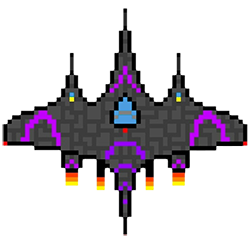
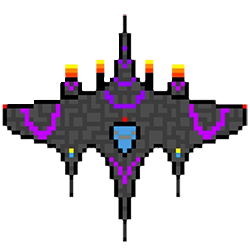
fix all coordinates to be in the center of the sprites
rotated boss ship, little tweaks to the laser flame to be perfectly centered in the boss ship, half player sprite can go  outside the edges of the window and some adjustments for the new coordinate system

Changed region(s): [[0.0, 0.028, 1.0, 0.98]]

diff --git a/models/ship.py b/models/ship.py
@@ -37,7 +37,10 @@ class Ship:
         # like the lasers appear from above the ship
         for laser in self.lasers:
             laser.draw(window)
-        window.blit(self.ship_img, (self.x, self.y))
+
+        # making ship's coordinates centered in the sprite
+        x_offset, y_offset = self.ship_img.get_size()
+        window.blit(self.ship_img, (self.x-x_offset/2, self.y-y_offset/2))
 
     def move_lasers(self, vel, obj):
         self.coolDown()
@@ -115,10 +118,9 @@ class Player(Ship):
         cx, cy = pygame.mouse.get_pos()
         button = pygame.mouse.get_pressed()        
         keys = pygame.key.get_pressed()
-
         # Movement
-        if cx > 0 and cx + self.ship_img.get_width() < WIDTH \
-            and cy > 0 and cy + self.ship_img.get_height() < HEIGHT :
+        if cx > 0 and cx < WIDTH \
+            and cy > 0 and cy < HEIGHT :
             self.x = cx
             self.y = cy
         # Shoot Laser
@@ -164,12 +166,13 @@ class Player(Ship):
         self.healthBar(window)
 
     def healthBar(self, window):
-        pygame.draw.rect(window, (255, 0, 0), (self.x,
-                                               self.y + self.ship_img.get_height() + 10,
+        x_offset, y_offset = self.ship_img.get_size()
+        pygame.draw.rect(window, (255, 0, 0), (self.x - x_offset/2,
+                                               self.y + y_offset/2 + 10,
                                                int(self.ship_img.get_width()),
                                                10))
-        pygame.draw.rect(window, (0, 255, 0), (self.x,
-                                               self.y + self.ship_img.get_height() + 10,
+        pygame.draw.rect(window, (0, 255, 0), (self.x - x_offset/2,
+                                               self.y + y_offset/2 + 10,
                                                int(self.ship_img.get_width() * (self.health/self.max_health)),
                                                10))
 
@@ -205,6 +208,6 @@ class Enemy(Ship):
     def shoot(self):
         if self.cool_down_counter == 0 and self.y > 0:
             ENEMY_LASER_SOUND.play()
-            laser = Laser(self.x - 10, self.y, self.laser_img)
+            laser = Laser(self.x, self.y, self.laser_img)
             self.lasers.append(laser)
             self.cool_down_counter = 1

diff --git a/models/laser.py b/models/laser.py
@@ -10,7 +10,9 @@ class Laser:
         self.mask = pygame.mask.from_surface(self.img)
 
     def draw(self, window):
-        window.blit(self.img, (self.x, self.y))
+        # making laser's coordinates centered in the sprite
+        x_offset, y_offset = self.img.get_size()
+        window.blit(self.img, (self.x-x_offset/2, self.y-y_offset/2))
 
     def move(self, vel):
         self.y += vel
@@ -20,3 +22,9 @@ class Laser:
 
     def collision(self, obj):
         return collide(self, obj)
+
+    def get_width(self):
+        return self.img.get_width()
+
+    def get_height(self):
+        return self.img.get_height()

diff --git a/utils/collide.py b/utils/collide.py
@@ -1,4 +1,6 @@
 def collide(obj1, obj2):
-    offset_x = obj2.x - obj1.x
-    offset_y = obj2.y - obj1.y
-    return obj1.mask.overlap(obj2.mask, (offset_x, offset_y)) != None
+    # obj1 and obj2 coordinates refer to the middle point of the mask, so we have to compute
+    # the coordinates of the upper-left corner of the sprite
+    x_offset = (obj2.x - obj2.get_width()/2) - (obj1.x - obj1.get_width()/2)
+    y_offset = (obj2.y - obj2.get_height()/2) - (obj1.y - obj1.get_height()/2)
+    return obj1.mask.overlap(obj2.mask, (x_offset, y_offset)) != None

diff --git a/screens/game.py b/screens/game.py
@@ -180,7 +180,7 @@ def game(isMouse=False):
                 else:
                     player.health -= 10
                     enemies.remove(enemy)
-            elif enemy.y + enemy.get_height() > HEIGHT:
+            elif enemy.y + enemy.get_height()/2 > HEIGHT:
                 lives -= 1
                 enemies.remove(enemy)
 
